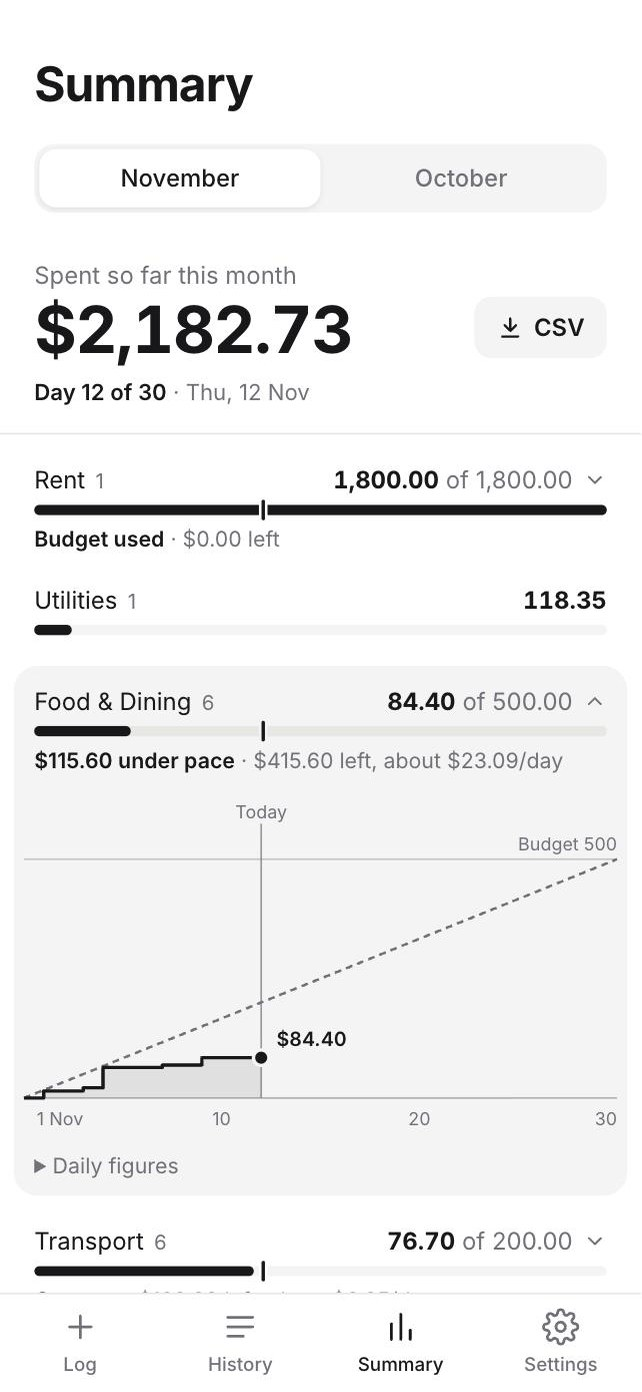
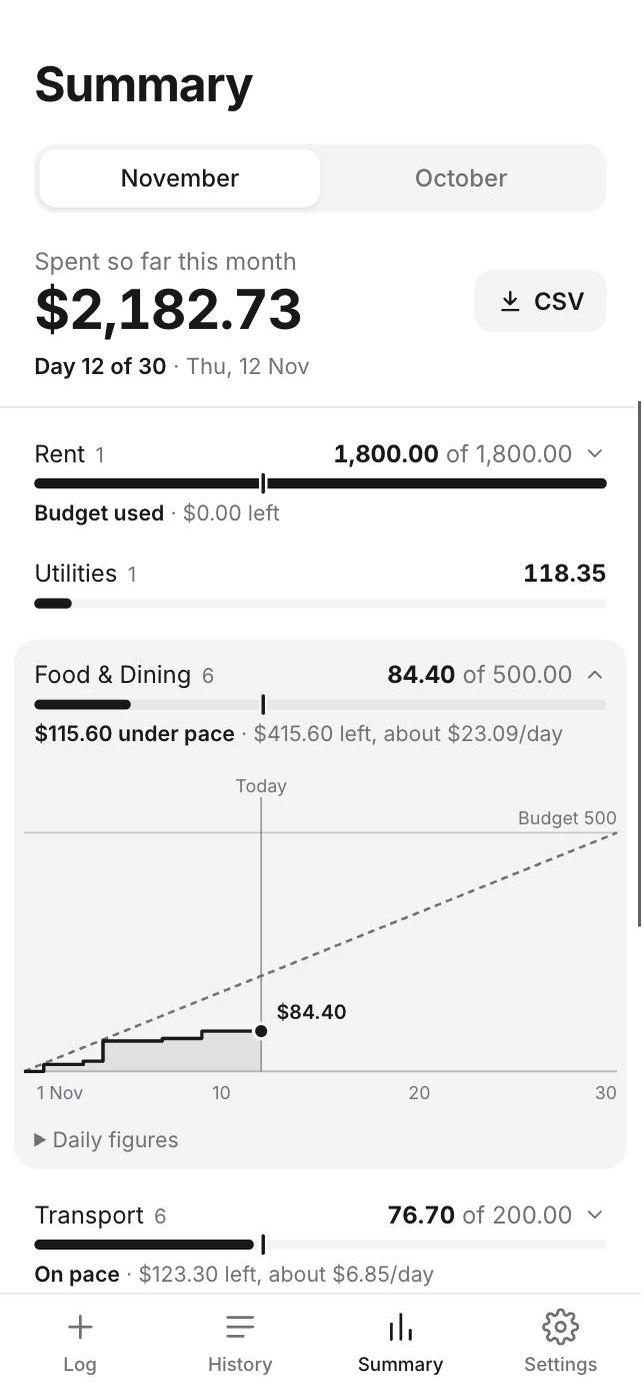
Version 1.1.4: smaller total on Summary
Total from 38px to 32px and the gap above it from 24px to 16px, so the
fixed top of Summary takes less of the screen. Guide screenshots retaken.

diff --git a/web/app/globals.css b/web/app/globals.css
@@ -139,8 +139,8 @@ textarea::placeholder { color: var(--muted); }
 .seg { display: flex; background: var(--soft); border-radius: 12px; padding: 3px; margin-top: 18px; }
 .seg button { flex: 1; height: 34px; border: none; background: none; border-radius: 10px; font-size: 14px; font-weight: 500; color: var(--muted); cursor: pointer; }
 .seg button.on { background: var(--surface); color: var(--text); box-shadow: 0 1px 3px rgba(0,0,0,.08); }
-.total { margin-top: 24px; }
-.total .big { font-size: 38px; font-weight: 700; letter-spacing: -0.02em; font-variant-numeric: tabular-nums; }
+.total { margin-top: 16px; }
+.total .big { font-size: 32px; font-weight: 700; letter-spacing: -0.02em; font-variant-numeric: tabular-nums; }
 /* CSV download beside the month's total (Specification 4.5) */
 .total-row { display: flex; justify-content: space-between; align-items: flex-end; gap: 12px; }
 .csv-button { display: inline-flex; align-items: center; gap: 6px; height: 36px; padding: 0 13px; border-radius: 10px; background: var(--soft); color: var(--text);

diff --git a/WORKLOG.md b/WORKLOG.md
@@ -1070,3 +1070,13 @@ Last updated: 12 November 2026
 - Version **1.1.3** (a small change to an existing screen), with a changelog entry. Updated the Specification (v0.40, process flow step 8), Test Plan (v1.8: H-01 and H-02 without the comparison, new H-10, M-03 covers a phone held sideways) and the user guide (the Summary text, a caption and both Summary screenshots, retaken from the demo account).
 - Tested locally at 375×812, 812×375, 768×1024, 1024×768 and 1280×800, in light and dark mode, on this month and last month: the block stays at the top when scrolled, except on a phone held sideways; the comparison line no longer appears; **CSV** still links to the month shown. Type-check, lint and a production build passed. The demo account was allowed on the local app only while the mockups and screenshots were taken, then removed; the temporary mockup page was deleted. No data was changed.
 - **Confirmed (12 November 2026):** after the deploy, the owner checked on their phone that Summary's total stays in place while scrolling.
+
+---
+
+## 12 November 2026 — Version 1.1.4: Smaller Summary Total
+
+### What Was Done
+- At the owner's request, made Summary's total smaller to save space in the section that stays at the top. Mockups on the demo account compared today's 38px total and 24px gap above it with 34px and 32px, each with a 16px gap. Measured on a phone held upright (812 points tall), the fixed section was 254, 241 and 238 points (31%, 30% and 29% of the screen). Most of the saving came from the smaller gap. The owner chose 32px.
+- The total is now 32px (the "Summary" heading is 28px), with a 16px gap above "Spent so far this month". The **CSV** button is unchanged.
+- Version **1.1.4** (a small tweak), with a changelog entry. The Specification and Test Plan don't state text sizes, so they're unchanged. The user guide's two Summary screenshots were retaken from the demo account.
+- Checked locally at phone size: the total shows at 32px and the fixed section is 238 points. Lint and a production build passed. The demo account was allowed on the local app only for the mockups and screenshots, then removed; the temporary mockup page was deleted. No data was changed.

diff --git a/CHANGELOG.md b/CHANGELOG.md
@@ -6,6 +6,13 @@ Versions follow [semantic versioning](https://semver.org): **major** for a chang
 
 ---
 
+## 1.1.4 — 12 November 2026
+
+**Improved**
+- On Summary, the total is slightly smaller and sits a little closer to the month switcher, so the section that stays at the top takes less of the screen.
+
+---
+
 ## 1.1.3 — 12 November 2026
 
 **Improved**
